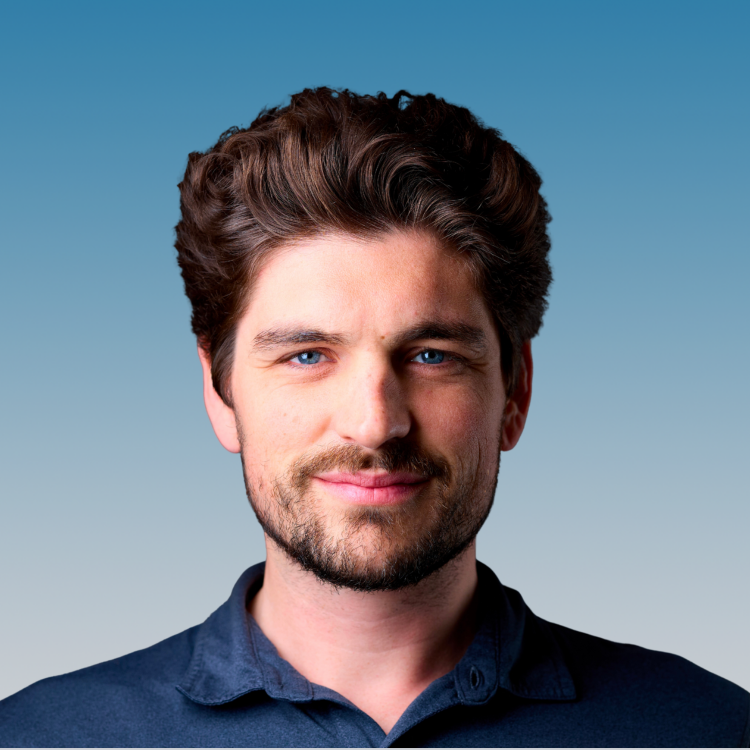
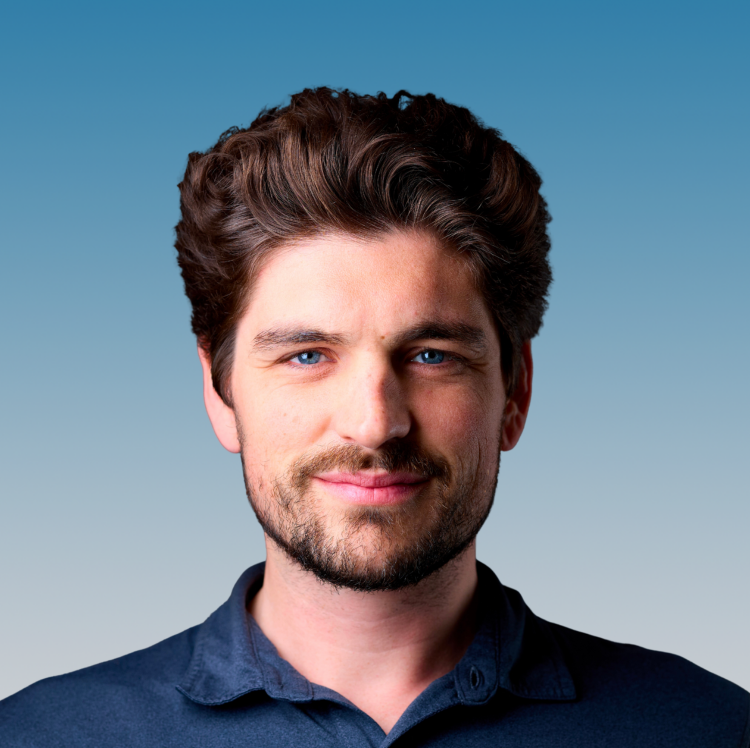
Basic touch-ups.

diff --git a/src/data/team.ts b/src/data/team.ts
@@ -14,7 +14,7 @@ export const team: TeamMember[] = [
     initials: "CH",
     title: "Founder & CEO · Director",
     group: "Leadership & Board",
-    bio: "Colton Hicks is the founder and CEO of Atoms for Humanity. He earned a PhD in quantum chemistry from Stanford University, where his work focused on computational chemistry and scalable approaches to molecular simulation. His background spans both scientific research and professional software engineering, and his work at AFH sits at the intersection of molecular science, scientific infrastructure, and high-performance computing.",
+    bio: "Colton Hicks is the founder and CEO of Atoms for Humanity. He earned his PhD in theoretical chemistry from Stanford University, where his work focused on distributed system design for quantum chemistry simulation, high throughput molecular analysis using group- and graph- theory, and organocatalyst design. Prior to his PhD, Colton worked as an analytic chemist building high throughput pipelines for synthetic DNA/RNA synthesis, as a researcher in macroeconomics and clinical psychology, and as a software engineer building automated trading systems at a hedge fund and scalable data systems at a medtech startup. His work at AFH sits at the intersection of scalable infrastructure, advanced molecular research, and high-performance computing.",
     image: "/images/team/colton-hicks.png",
     links: [
       { label: "LinkedIn", href: "https://www.linkedin.com/in/coltonbh/" },
